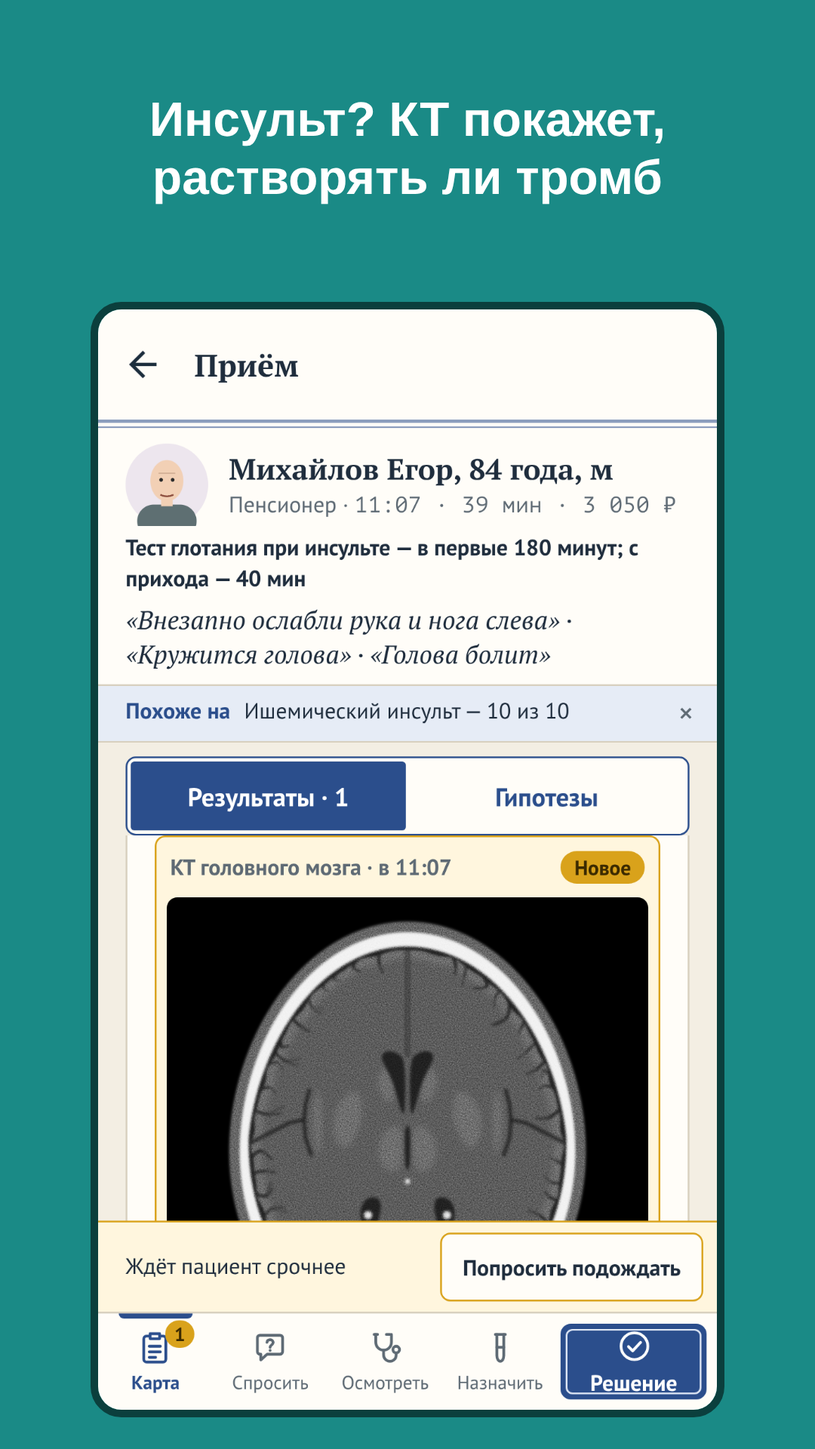
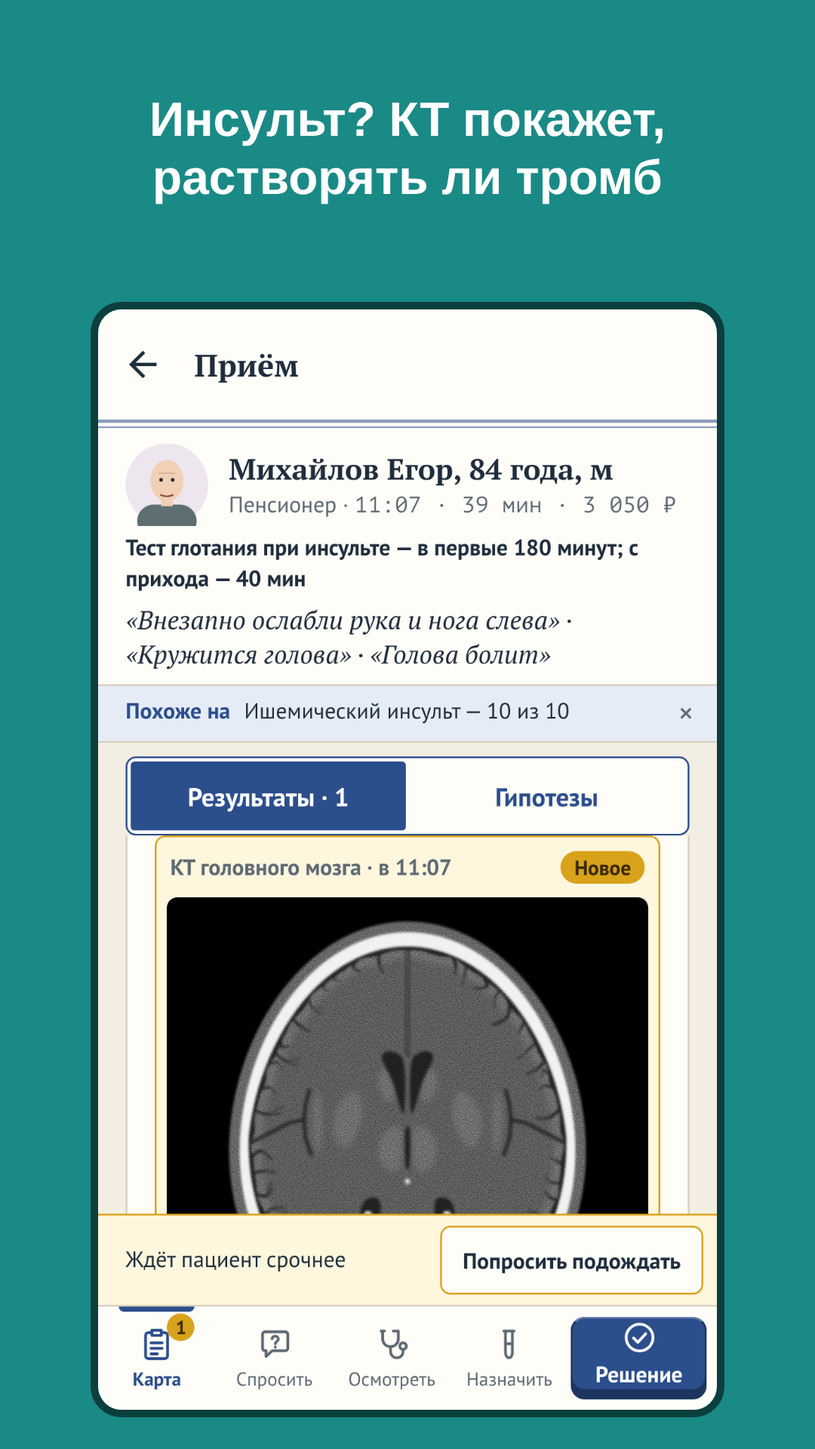
1.1.10 — кнопки-клавиши (часть 106 «Пути к публикации»)
Ответ владельца на вопрос 74 (Nefeste/anamnez#218), вариант 1. Компонент Key: губа на тон
темнее (keyLip, keyLipPlain в палитре обеих тем), светлая кромка сверху; нажатие вдавливает
лицо кнопки, высота клавиши постоянна. Клавишей — Button (главная и обычная), «Решение» в
CardTabs, пункты меню и «Случай дня» в «Мониторе». Строки листа, вкладки и чипы — как были;
оттиск штампа у главной кнопки «Медкарты» снят, как в макете. Сценарий в браузере берёт цвет
листа у лица клавиши. Снимки магазина 01–07 и обложка пересняты.

Claude-Session: https://claude.ai/code/session_01L25NsoAfKYPftpG2eaN9Vv

Changed region(s): [[0.1222, 0.8125, 0.8861, 0.9688]]

diff --git a/src/ui/components.tsx b/src/ui/components.tsx
@@ -3,7 +3,7 @@
 // рамкой внутри, листы — бумага, вкладки действий — закладки картотеки; в «Мониторе» — панели
 // и зелёная кнопка.
 import { type ReactNode, type Ref, useImperativeHandle, useRef, useState } from 'react';
-import { type LayoutChangeEvent, Modal, Pressable, ScrollView, StyleSheet, View, type ViewStyle } from 'react-native';
+import { type LayoutChangeEvent, Modal, Pressable, type PressableProps, ScrollView, type StyleProp, StyleSheet, View, type ViewStyle } from 'react-native';
 import { Icon } from './Icon';
 import { AWARD_ICON } from './iconShapes';
 import type { ItemIcon } from './itemIcons';
@@ -200,26 +200,49 @@ export function Button({ title, onPress, hint, kind = 'primary', disabled, testI
       {hint ? <Text style={[styles.btnHint, !primary && styles.muted, hintMono && styles.btnHintMono]}>{hint}</Text> : null}
     </>
   );
+  // клавиша (часть 106, ответ владельца на вопрос 74) — в обеих темах; оттиска штампа у главной кнопки больше нет
   return (
     <View style={styles.btnRow}>
-      <Pressable
+      <Key
         testID={testID}
         accessibilityRole={checked !== undefined ? 'checkbox' : 'button'}
         {...(checked !== undefined ? { 'aria-checked': checked } : {})}
         disabled={disabled}
         onPress={onPress}
-        style={({ pressed }) => [styles.btn, styles.fill, !primary && styles.btnPlain, disabled && styles.btnDisabled, pressed && styles.btnPressed]}>
-        {/* оттиск штампа: тонкая светлая рамка внутри главной кнопки «Медкарты» */}
-        {primary && t.shape.stamp ? <View style={styles.stamp} /> : null}
+        accent={primary}
+        radius={t.shape.radius + 2}
+        style={styles.fill}
+        face={styles.btnFace}>
         {picture ? (
           <View style={styles.pictureRow}>
             {picture}
             <View style={styles.fill}>{label}</View>
           </View>
         ) : label}
-      </Pressable>
+      </Key>
       {onInfo ? <InfoButton testID={testID ? `${testID}-info` : undefined} label={infoLabel} onPress={onInfo} /> : null}
     </View>
+  );
+}
+
+/** Губа клавиши в точках: нажатие вдавливает кнопку на губу без одной точки. */
+export const KEY_LIP = 5;
+
+/**
+ * Клавиша (spec 2026-11-buttons, часть 106, ответ владельца на вопрос 74): под кнопкой — губа на тон темнее, сверху —
+ * светлая кромка; нажатие вдавливает кнопку в губу, а высота клавиши не меняется — соседи не сдвигаются. `style` —
+ * место клавиши в раскладке (flex, поля), `face` — сама кнопка (отступы, раскладка содержимого).
+ */
+export function Key({ accent, radius, style, face, children, disabled, ...press }: Omit<PressableProps, 'style' | 'children'> & {
+  accent?: boolean; radius: number; style?: StyleProp<ViewStyle>; face?: StyleProp<ViewStyle>; children: ReactNode;
+}) {
+  const styles = useStyles();
+  return (
+    <Pressable {...press} disabled={disabled}
+      style={({ pressed }) => [styles.key, { borderRadius: radius }, accent ? styles.keyLip : styles.keyLipPlain, pressed && !disabled && styles.keyDown,
+        disabled && styles.btnDisabled, style]}>
+      <View style={[{ borderRadius: radius }, accent ? styles.keyFace : styles.keyFacePlain, face]}>{children}</View>
+    </Pressable>
   );
 }
 
@@ -427,9 +450,17 @@ const useStyles = makeStyles(t => ({
   achievement: { flexDirection: 'row', alignItems: 'center', gap: space.m },
   p: { fontSize: 15, lineHeight: 21, color: t.colors.ink },
   muted: { color: t.colors.muted },
-  btn: { minHeight: touch, backgroundColor: t.colors.accent, borderRadius: t.shape.radius, paddingHorizontal: space.l, paddingVertical: space.m, justifyContent: 'center' },
-  stamp: { position: 'absolute', top: 3, right: 3, bottom: 3, left: 3, pointerEvents: 'none', borderWidth: 1, borderColor: t.colors.onAccentHint, borderRadius: Math.max(0, t.shape.radius - 2) },
-  btnPlain: { backgroundColor: t.colors.card, borderWidth: 1.5, borderColor: t.shape.stamp ? t.colors.accent : t.colors.edge },
+  // кнопка-клавиша: лицо — без губы не ниже 43 dp, с губой — 48 (NFR-ACC-1)
+  btnFace: { minHeight: touch - KEY_LIP, paddingHorizontal: space.l, paddingVertical: space.m - 2, justifyContent: 'center' },
+  key: { paddingBottom: KEY_LIP },
+  keyDown: { paddingTop: KEY_LIP - 1, paddingBottom: 1 },
+  keyLip: { backgroundColor: t.colors.keyLip },
+  keyLipPlain: { backgroundColor: t.colors.keyLipPlain },
+  keyFace: { backgroundColor: t.colors.accent, borderWidth: 1, borderColor: t.colors.keyLip, borderTopWidth: 1.5, borderTopColor: t.colors.keyLight },
+  keyFacePlain: {
+    backgroundColor: t.colors.card, borderWidth: 1, borderColor: t.shape.ruled ? t.colors.edge : t.colors.keyLipPlain, borderTopWidth: 1.5,
+    borderTopColor: t.colors.keyLightPlain,
+  },
   btnDisabled: { opacity: 0.45 },
   btnPressed: { opacity: 0.8 },
   btnText: { color: t.colors.onAccent, fontSize: 16, fontWeight: '700' },

diff --git a/src/ui/menu.tsx b/src/ui/menu.tsx
@@ -2,12 +2,13 @@
 // 2026-10-menu). «Медкарта» — обложка карты: «АНАМНЕЗ» прописными над двойной чертой, бейдж — карточка с прорезью для
 // зажима и личной печатью врача, пункты — строки журнала на одном листе, номер на поле за красной линией, версия — внизу.
 // «Монитор» — название, под ним кривая ЭКГ и версия, бейдж — панель с цифрами, как на мониторе у постели, пункты —
-// панели с полосой.
+// панели с полосой, клавишами (часть 106, вопрос 74).
 import { Pressable, useWindowDimensions, View } from 'react-native';
 import { T } from '@/i18n';
 import { EcgLine } from '@/render/EcgLine';
 import { Portrait } from '@/render/Portrait';
 import { Meter } from './charts';
+import { Key } from './components';
 import { Text } from './text';
 import { makeStyles, space, useTheme } from './theme';
 
@@ -148,9 +149,8 @@ export function DailyCard({ day, month, hint, label, onPress }: { day: number; m
   const styles = useStyles();
   const t = useTheme();
   const ruled = t.shape.ruled;
-  return (
-    <Pressable testID="menu-daily" accessibilityRole="button" accessibilityLabel={label} onPress={onPress}
-      style={({ pressed }) => [ruled ? styles.daily : styles.panel, pressed && styles.pressed]}>
+  const inner = (
+    <>
       <View style={styles.leaf} aria-hidden importantForAccessibility="no-hide-descendants">
         <Text style={styles.leafDay}>{String(day)}</Text>
         <Text style={styles.leafMonth}>{month}</Text>
@@ -160,7 +160,18 @@ export function DailyCard({ day, month, hint, label, onPress }: { day: number; m
         <Text style={styles.hint}>{hint}</Text>
       </View>
       {ruled ? null : <Text style={styles.chevron} aria-hidden>›</Text>}
+    </>
+  );
+  // «Монитор» — клавишей, как пункты меню (часть 106); «Медкарта» — листок календаря, как был
+  return ruled ? (
+    <Pressable testID="menu-daily" accessibilityRole="button" accessibilityLabel={label} onPress={onPress}
+      style={({ pressed }) => [styles.daily, pressed && styles.pressed]}>
+      {inner}
     </Pressable>
+  ) : (
+    <Key testID="menu-daily" accessibilityRole="button" accessibilityLabel={label} onPress={onPress} radius={t.shape.card} face={styles.panel}>
+      {inner}
+    </Key>
   );
 }
 
@@ -192,15 +203,15 @@ export function MenuList({ items }: { items: MenuItem[] }) {
   return (
     <View style={styles.panels}>
       {items.map((it, i) => (
-        <Pressable key={it.testID} testID={it.testID} accessibilityRole="button" onPress={it.onPress}
-          style={({ pressed }) => [styles.panel, pressed && styles.pressed]}>
+        // панель-клавиша (часть 106, вопрос 74)
+        <Key key={it.testID} testID={it.testID} accessibilityRole="button" onPress={it.onPress} radius={t.shape.card} face={styles.panel}>
           <View style={[styles.bar, i === 0 && styles.barFirst]} />
           <View style={styles.body}>
             <Text style={styles.panelTitle}>{it.title}</Text>
             {it.hint ? <Text style={styles.hint}>{it.hint}</Text> : null}
           </View>
           <Text style={styles.chevron} aria-hidden>›</Text>
-        </Pressable>
+        </Key>
       ))}
     </View>
   );
@@ -279,10 +290,8 @@ const useStyles = makeStyles(t => ({
   readCases: { color: t.colors.accent },
   readCorrect: { color: t.colors.info },
   panels: { gap: space.s },
-  panel: {
-    flexDirection: 'row', alignItems: 'center', minHeight: 64, paddingRight: space.m, paddingLeft: space.m + 2,
-    borderRadius: t.shape.card, borderWidth: 1, borderColor: t.colors.edge, backgroundColor: t.colors.card,
-  },
+  // лицо панели-клавиши: фон, рамку и губу даёт `Key` (часть 106)
+  panel: { flexDirection: 'row', alignItems: 'center', minHeight: 64, paddingRight: space.m, paddingLeft: space.m + 2 },
   bar: { alignSelf: 'stretch', width: 4, marginVertical: space.m, borderRadius: 2, backgroundColor: t.colors.edge },
   barFirst: { backgroundColor: t.colors.info },
   panelTitle: { fontSize: 18, lineHeight: 24, fontWeight: '700', color: t.colors.ink },

diff --git a/src/ui/case/CardTabs.tsx b/src/ui/case/CardTabs.tsx
@@ -1,7 +1,8 @@
 // Вкладки карты пациента внизу, под большим пальцем (spec 2026-10-patient-card, 0.6.0): «Карта · Спросить · Осмотреть ·
-// Назначить» и «Решение» — пятой, шире и цвета главной кнопки. На «Карте» — сколько пришло нового.
+// Назначить» и «Решение» — пятой, шире, клавишей цвета главной кнопки (часть 106). На «Карте» — сколько пришло нового.
 import { Pressable, View } from 'react-native';
 import { T } from '@/i18n';
+import { Key } from '@/ui/components';
 import { Icon } from '@/ui/Icon';
 import { CARD_ICONS } from '@/ui/iconShapes';
 import { makeStyles, space, touch, useTheme } from '@/ui/theme';
@@ -38,13 +39,12 @@ export function CardTabs({ value, onChange, fresh, decide }: {
           );
         })}
       </View>
-      <Pressable testID="visit-decide" accessibilityRole="button" accessibilityHint={decide.hint} onPress={decide.onPress} hitSlop={DECIDE_SLOP}
-        style={({ pressed }) => [styles.decide, pressed && styles.pressed]}>
-        {/* оттиск штампа «Медкарты», как у главной кнопки */}
-        {theme.shape.stamp ? <View style={styles.stamp} /> : null}
+      {/* клавиша, как главная кнопка (часть 106, вопрос 74) */}
+      <Key testID="visit-decide" accessibilityRole="button" accessibilityHint={decide.hint} onPress={decide.onPress} hitSlop={DECIDE_SLOP}
+        accent radius={theme.shape.radius + 2} style={styles.decide} face={styles.decideFace}>
         <Icon shape={CARD_ICONS.decide} size={22} color={theme.colors.onAccent} />
         <Text numberOfLines={1} adjustsFontSizeToFit minimumFontScale={0.7} style={styles.decideText}>{decide.title}</Text>
-      </Pressable>
+      </Key>
     </View>
   );
 }
@@ -63,11 +63,8 @@ const useStyles = makeStyles(t => ({
     position: 'absolute', top: space.xs, left: '50%', marginLeft: 6, minWidth: 16, paddingHorizontal: 5, borderRadius: 8, overflow: 'hidden',
     backgroundColor: t.colors.freshLine, color: t.colors.onYellow, fontSize: 11, fontWeight: '700', lineHeight: 16, textAlign: 'center',
   },
-  decide: {
-    flex: 1.15, margin: space.s - 2, marginLeft: 2, borderRadius: t.shape.radius, backgroundColor: t.colors.accent,
-    alignItems: 'center', justifyContent: 'center', gap: 2, paddingHorizontal: space.xs,
-  },
-  stamp: { position: 'absolute', top: 3, right: 3, bottom: 3, left: 3, pointerEvents: 'none', borderWidth: 1, borderColor: t.colors.onAccentHint, borderRadius: Math.max(0, t.shape.radius - 2) },
+  decide: { flex: 1.15, margin: space.s - 2, marginLeft: 2 },
+  decideFace: { flex: 1, alignItems: 'center', justifyContent: 'center', gap: 2, paddingHorizontal: space.xs },
   decideText: { fontSize: 13, fontWeight: '700', color: t.colors.onAccent },
   pressed: { opacity: 0.75 },
 }));

diff --git a/src/i18n/sections/about.ts b/src/i18n/sections/about.ts
@@ -9,11 +9,15 @@ export const about = {
   whatsNew: 'Что нового',
   // то же, что раздел версии в README.md (05-process.md, чек-лист выпуска)
   news: [
-    'Лист назначений начинается с того, что облегчает: «Режим и советы», жаропонижающие, нос, бронхи, — а противовирусные и антибиотики идут за ними.',
+    'Кнопки — клавишами: под каждой — полоска на тон темнее, а при нажатии кнопка вдавливается.',
+    'Клавишами стали и «Решение» внизу карты пациента, и пункты меню в тёмной теме.',
   ],
   // прежние версии (просьба владельца 01.11.2026) — под кнопкой, новые сверху, с первого выпуска; строки — из разделов
   // этих версий в README.md
   newsBefore: [
+    { version: '1.1.9', title: 'лист назначений: сначала то, что облегчает', items: [
+      'Лист назначений начинается с того, что облегчает: «Режим и советы», жаропонижающие, нос, бронхи, — а противовирусные и антибиотики идут за ними.',
+    ] },
     { version: '1.1.8', title: 'гипотезы и полосы над картой', items: [
       'Кнопка «Обновить гипотезы» на доске: убирает из ряда то, чего больше нет в «Похоже на».',
       'Полосы над картой пациента закрываются: «Похоже на» и опасные причины — у этого пациента, «За это время» — до следующего события.',

diff --git a/tools/e2e/smoke.ts b/tools/e2e/smoke.ts
@@ -1207,7 +1207,8 @@ try {
   await page.getByTestId('text-size-0').click();
   // тема (spec 2026-09-own-look): по умолчанию — как в телефоне, у сценария телефон светлый;
   // «Тёмная» меняет вид сразу, без перезапуска, и остаётся после перезапуска
-  const sheetBg = () => page.getByTestId('settings-about').evaluate(el => getComputedStyle(el).backgroundColor);
+  // кнопка — клавиша (часть 106): снаружи губа, цвет листа — у лица кнопки, первого вложенного блока
+  const sheetBg = () => page.getByTestId('settings-about').evaluate(el => getComputedStyle(el.firstElementChild ?? el).backgroundColor);
   const LIGHT_CARD = 'rgb(255, 253, 248)';
   const DARK_CARD = 'rgb(21, 38, 42)';
   check((await page.getByTestId('theme-system').getAttribute('aria-checked')) === 'true' && (await sheetBg()) === LIGHT_CARD, `настройки: тема как в телефоне — светлая «Медкарта» (${await sheetBg()})`);
@@ -1224,7 +1225,7 @@ try {
     const dark = await browser.newPage({ viewport: { width: 412, height: 915 }, colorScheme: 'dark' });
     await dark.goto(`${base}/settings`);
     await dark.getByTestId('settings-about').waitFor({ timeout: 30_000 });
-    const bg = await dark.getByTestId('settings-about').evaluate(el => getComputedStyle(el).backgroundColor);
+    const bg = await dark.getByTestId('settings-about').evaluate(el => getComputedStyle(el.firstElementChild ?? el).backgroundColor);
     check(bg === DARK_CARD && (await dark.getByTestId('theme-system').getAttribute('aria-checked')) === 'true', `настройки: тёмный телефон — «Монитор» по умолчанию (${bg})`);
     await dark.close();
   }

diff --git a/src/ui/palette.ts b/src/ui/palette.ts
@@ -79,6 +79,14 @@ export interface Palette {
   present: string;
   absent: string;
   unknown: string;
+  /**
+   * клавиша (часть 106, вопрос 74): губа под главной кнопкой — на тон темнее, светлая кромка сверху; у обычной кнопки —
+   * свои губа и кромка
+   */
+  keyLip: string;
+  keyLight: string;
+  keyLipPlain: string;
+  keyLightPlain: string;
 }
 
 export interface Fonts {
@@ -119,6 +127,7 @@ export const LIGHT: Theme = {
     figure: '#E7DFCE', figureLine: '#A99E87',
     chart: '#2B4E8C', chartTrack: '#DCE5F4', good: '#2F7A40', warn: '#D9A21B', bad: '#B8392F',
     present: '#B8392F', absent: '#2B4E8C', unknown: '#857B69',
+    keyLip: '#1D355F', keyLight: '#6680AC', keyLipPlain: '#B1AB9D', keyLightPlain: '#FFFFFF',
   },
   fonts: { title: 'PT Serif', body: 'PT Sans', mono: 'PT Mono' },
   shape: { radius: 6, card: 3, stamp: true, folderTabs: true, doubleRule: true, ruled: true },
@@ -137,6 +146,7 @@ export const DARK: Theme = {
     chart: '#2B9FC4', chartTrack: '#173B47', good: '#0CA30C', warn: '#FAB219', bad: '#D03B3B',
     // «есть» — коралловым, как тревога монитора; «нет» — голубым, как кривая сатурации
     present: '#FF6B5E', absent: '#56C8E8', unknown: '#7C9592',
+    keyLip: '#29965A', keyLight: '#73E6A6', keyLipPlain: '#0C1517', keyLightPlain: '#364448',
   },
   fonts: { title: 'Golos Text', body: 'Golos Text', mono: 'JetBrains Mono' },
   shape: { radius: 12, card: 12, stamp: false, folderTabs: false, doubleRule: false, ruled: false },

diff --git a/docs/specs/2026-11-buttons.md b/docs/specs/2026-11-buttons.md
@@ -1,7 +1,7 @@
 # Вид кнопок: клавиша или контур
 
-**Версия:** 1.1.x **Состояние:** делается; вопрос 74 ([#218](https://github.com/Nefeste/anamnez/issues/218)) — вариант
-1, клавиша
+**Версия:** 1.1.10 **Состояние:** сделано в коде; вопрос 74 ([#218](https://github.com/Nefeste/anamnez/issues/218)) —
+вариант 1, клавиша; нажатие — проверить на телефоне
 
 ## Зачем
 
@@ -76,3 +76,21 @@
 
 - **Ответ владельца на вопрос 74** (01.11.2026, [#218](https://github.com/Nefeste/anamnez/issues/218)) — вариант 1,
   клавиша. Делается частью 106, по разделу «Что увидит игрок».
+- **1.1.10** (01.11.2026). Компонент `Key` в `src/ui/components.tsx`: `Pressable` — губа (`keyLip`, `keyLipPlain` в
+  палитре обеих тем), внутри — лицо кнопки со светлой кромкой (`keyLight`, `keyLightPlain`); нажатие меняет только
+  поля губы (5 точек снизу → 4 сверху и 1 снизу), поэтому высота клавиши постоянна. Клавишей — `Button` (главная и
+  обычная), «Решение» в `CardTabs`, пункты меню «Монитора» и «Случай дня» в нём (`MenuList`, `DailyCard`).
+- **Не клавишей, хотя в «Что увидит игрок» были.** «Где лечить» — строки листа назначений (`CheckRow`), как и всё
+  лечение в нём: клавишами длинный список стал бы шумным. Уровень сложности — вкладки (`Tabs`), а вкладки не меняются.
+  Выбор «Больные» в настройках (`Choice`) — тоже строки.
+- **Оттиск штампа у главной кнопки «Медкарты» снят** — как на кадрах макета, по которым владелец выбирал: клавиша с
+  кромкой и штамп внутри вместе спорили. Обычные кнопки «Медкарты» — с рамкой цвета края листа, а не чернил, как в
+  макете.
+- **Сценарий в браузере** читал цвет листа у кнопки «Об игре» по её внешнему блоку — теперь это губа; проверки темы
+  берут цвет лица клавиши (первый вложенный блок). Снимки магазина 01–07 и обложка пересняты — на них клавиши.
+
+После 1.1.10 — меню «Медкарты» и «Монитора», «Быстрая игра»; внизу — «Решение» в обеих темах и «К списку дней»:
+
+![Меню и «Быстрая игра» с клавишами](img/2026-11-buttons/after-menu.png)
+
+![«Решение» и главная кнопка внизу экрана](img/2026-11-buttons/after-bottom.png)

diff --git a/docs/specs/2026-10-publish-ready.md b/docs/specs/2026-10-publish-ready.md
@@ -1,7 +1,7 @@
 # Путь к публикации: критический проход и части
 
 **Версия:** 1.1.x → публикуемая **Состояние:** проход — 31.10.2026, повторный — 01.11.2026; части 97–105 — 1.1.1–1.1.8,
-ответ на вопрос 73 — 1.1.9; 106 — вид кнопок, вопрос 74: клавиша
+ответ на вопрос 73 — 1.1.9; 106 — кнопки-клавиши, 1.1.10
 
 ## Зачем
 
@@ -51,7 +51,7 @@
 | 102 | Меню на высоком экране — пустота между бейджем и пунктами | Н8 | вопрос 69, [#204](https://github.com/Nefeste/anamnez/issues/204) | S |
 | 103 | Повторный критический проход по тем же меркам; снимки и тексты магазина — по публикуемой версии; правки по нему — 1.1.7 | Н1, Н3, Н5–Н8, Н10 повторного прохода | вопрос 73, [#215](https://github.com/Nefeste/anamnez/issues/215) — порядок групп листа назначений | M |
 | 105 | Приём: кнопка «Обновить гипотезы» — убрать из ряда то, чего уже нет в «Похоже на»; плашки над картой пациента — «Похоже на», «Опасных причин … почти не бывает», «За это время пришёл …» — закрываются; видимая граница между беседой и вопросами | просьба владельца 01.11.2026; Н4 повторного прохода; сделано — 1.1.8 | — | M |
-| 106 | Вид кнопок — по образцу, который прислал владелец 01.11.2026; спецификация [`2026-11-buttons`](2026-11-buttons.md) | просьба владельца 01.11.2026 | вопрос 74, [#218](https://github.com/Nefeste/anamnez/issues/218) — вариант 1, клавиша | M |
+| 106 | Вид кнопок — по образцу, который прислал владелец 01.11.2026; спецификация [`2026-11-buttons`](2026-11-buttons.md) | просьба владельца 01.11.2026 | вопрос 74, [#218](https://github.com/Nefeste/anamnez/issues/218) — вариант 1, клавиша; сделано — 1.1.10 | M |
 
 Вопросы 70 (системный экран запуска Android, [#205](https://github.com/Nefeste/anamnez/issues/205)) и 71
 (тишина в кабинете на приёме, [#206](https://github.com/Nefeste/anamnez/issues/206)) — из спецификации

diff --git a/docs/journal/2026-11.md b/docs/journal/2026-11.md
@@ -13,3 +13,4 @@
 | 2026-11-01 | Часть 106, вид кнопок: разобрал образец владельца — шесть стилей веба 2026 года; для игры подходят два — «клавиша» (тактильный скевоморфизм) и «контур с жёсткой тенью» (смягчённый необрутализм). Макет обоих на настоящей кнопке игры, кадры в обеих темах — спецификация `2026-11-buttons`; выбор — вопрос 74. Рекомендация — клавиша. Код макета в репозиторий не идёт, только кадры. |
 | 2026-11-01 | Ответ владельца на вопрос 73 (Nefeste/anamnez#215, закрыл владелец) — вариант 2: лист назначений начинается с «Режима и советов», жаропонижающих, носа и бронхов, потом противовирусные и антибиотики; порядок один для всех диагнозов — 1.1.9. Вопрос 74 — вид кнопок, Nefeste/anamnez#218, кадры — в спецификации `2026-11-buttons`. Ответ на 73 пришёл до моего следующего чтения Issue, но мой первый запрос комментариев вернул пусто — гонка; перед каждой частью — сверка Issues, как и было. |
 | 2026-11-01 | Ответ владельца на вопрос 74 (Nefeste/anamnez#218) — вариант 1: кнопки — клавишей, как в рекомендации; делается частью 106 следующим выпуском. |
+| 2026-11-01 | 1.1.10 — кнопки-клавиши, часть 106 «Пути к публикации» (ответ владельца на вопрос 74, вариант 1). Компонент `Key`: губа на тон темнее, светлая кромка, нажатие вдавливает лицо кнопки, высота постоянна. Клавишей — `Button`, «Решение» внизу карты, пункты меню «Монитора»; строки листа, вкладки и чипы — как были. Оттиск штампа у главной кнопки «Медкарты» снят, как на кадрах макета. Части 97–106 «Пути к публикации» сделаны — дальше слово владельца: телефон, ФИПС, карточка RuStore. |

diff --git a/README.md b/README.md
@@ -45,6 +45,16 @@ npm run android                      # отладочная сборка на т
 [`2026-09`](docs/journal/2026-09.md) (перенесены дословно: 28.10.2026 — с 0.5.14 по 0.6.0, 31.10.2026 — с 0.6.1 по
 0.6.8). Здесь — разделы 0.6.9 и новее.
 
+### 1.1.10 — кнопки-клавиши (01.11.2026)
+
+- Кнопки — клавишами: под каждой — полоска на тон темнее, сверху — светлая кромка, а при нажатии кнопка вдавливается;
+  высота при этом не меняется, соседи не сдвигаются. Часть 106 «Пути к публикации», ответ владельца на вопрос 74
+  ([#218](https://github.com/Nefeste/anamnez/issues/218)), вариант 1 — спецификация
+  [`2026-11-buttons`](docs/specs/2026-11-buttons.md).
+- Клавишами стали и «Решение» внизу карты пациента, и пункты меню в тёмной теме; строки журнала в меню «Медкарты»,
+  вкладки, чипы вопросов и строки листа назначений — как были. У главной кнопки «Медкарты» больше нет оттиска штампа:
+  клавиша и штамп вместе спорили.
+
 ### 1.1.9 — лист назначений: сначала то, что облегчает (01.11.2026)
 
 - Лист назначений начинается с того, что облегчает: «Режим и советы», жаропонижающие, нос, бронхи, — а

diff --git a/docs/07-roadmap.md b/docs/07-roadmap.md
@@ -159,7 +159,7 @@ ADR [0021](adr/0021-private-after-release.md)). Тег `v1.0.0` — 31.10.2026, 
      закрываются; видимая граница между беседой и вопросами — просьба владельца 01.11.2026; **1.1.8**, сделано.
 106. Вид кнопок — по образцу, который прислал владелец 01.11.2026: из шести стилей образца подходят два — клавиша
      и контур с жёсткой тенью; варианты на кадрах — спецификация [`specs/2026-11-buttons.md`](specs/2026-11-buttons.md),
-     вид — вопрос 74, [#218](https://github.com/Nefeste/anamnez/issues/218): вариант 1, клавиша — делается.
+     вид — вопрос 74, [#218](https://github.com/Nefeste/anamnez/issues/218): вариант 1, клавиша — **1.1.10**, сделано.
 
 До публикации владелец проверяет название по ФИПС (часть 64) и обновляет карточку по публикуемой версии.
 
